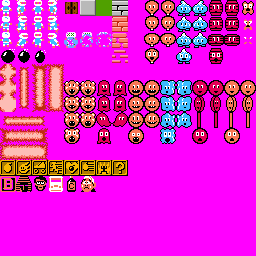
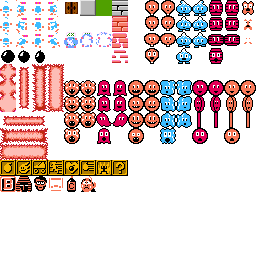
...

diff --git a/Bomberman/src/com/msteam/gameobject/Character.java b/Bomberman/src/com/msteam/gameobject/Character.java
@@ -23,30 +23,30 @@ public abstract class Character extends ParticularObject{
             setPosY(getPosY() + getSpeedY());
 
             if(getDirection() == DIR_LEFT &&
-                    getGameWorld().map.impactWithLeft(getBoundForCollisonWithMap())!=null){
+                    getGameWorld().map.impactWithLeft(getBoundForCollisionWithMap())!=null){
 
-                Rectangle rectLeftWall = getGameWorld().map.impactWithLeft(getBoundForCollisonWithMap());
+                Rectangle rectLeftWall = getGameWorld().map.impactWithLeft(getBoundForCollisionWithMap());
                 setPosX(rectLeftWall.x + rectLeftWall.width + getWidth()/2);
                 System.out.println("Impact with left box");
             }
             if(getDirection() == DIR_RIGHT &&
-                    getGameWorld().map.impactWithRight(getBoundForCollisonWithMap())!=null){
+                    getGameWorld().map.impactWithRight(getBoundForCollisionWithMap())!=null){
 
-                Rectangle rectRightWall = getGameWorld().map.impactWithRight(getBoundForCollisonWithMap());
+                Rectangle rectRightWall = getGameWorld().map.impactWithRight(getBoundForCollisionWithMap());
                 setPosX(rectRightWall.x - getWidth()/2);
                 System.out.println("Impact with right box");
             }
             if(getDirection() == DIR_UP &&
-                    getGameWorld().map.impactWithUp(getBoundForCollisonWithMap())!=null){
+                    getGameWorld().map.impactWithUp(getBoundForCollisionWithMap())!=null){
 
                 //Rectangle rectUpWall = getGameWorld().map.impactWithUp(getBoundForCollisonWithMap());
                 //setPosY(rectUpWall.y + rectUpWall.height + getHeight()/2);
                 System.out.println("Impact with up box");
             }
             if(getDirection() == DIR_DOWN &&
-                    getGameWorld().map.impactWithRight(getBoundForCollisonWithMap())!=null){
+                    getGameWorld().map.impactWithRight(getBoundForCollisionWithMap())!=null){
 
-                Rectangle rectDownWall = getGameWorld().map.impactWithRight(getBoundForCollisonWithMap());
+                Rectangle rectDownWall = getGameWorld().map.impactWithRight(getBoundForCollisionWithMap());
                 setPosY(rectDownWall.y - getHeight()/2 );
                 System.out.println("Impact with down box");
             }

diff --git a/Bomberman/src/com/msteam/gameobject/Map.java b/Bomberman/src/com/msteam/gameobject/Map.java
@@ -16,7 +16,7 @@ public class Map extends GameObject{
     public Map(float x, float y, GameWorld gameWorld){
 
         super(x,y,gameWorld);
-        this.tileSize = 48;
+        this.tileSize = 32;
         map = CacheDataLoader.getInstance().getMap();
     }
 
@@ -38,7 +38,22 @@ public class Map extends GameObject{
                     wall = CacheDataLoader.getInstance().getFrameImage("wall");
                     g2.drawImage(wall.getImage(),(int)getPosX() + j*tileSize - (int) camera.getPosX(),(int)getPosY() + i*tileSize - (int) camera.getPosY(), tileSize, tileSize,null );
                 }
-                //if (map[i][j].equals())
+                if (map[i][j].equals("*")){
+
+                    FrameImage brick = new FrameImage();
+                    brick = CacheDataLoader.getInstance().getFrameImage("brick");
+                    g2.drawImage(brick.getImage(),(int)getPosX() + j*tileSize - (int) camera.getPosX(),(int)getPosY() + i*tileSize - (int) camera.getPosY(), tileSize, tileSize,null );
+                }
+                if(map[i][j].equals("x")){
+                    FrameImage portal = new FrameImage();
+                    portal = CacheDataLoader.getInstance().getFrameImage("portal");
+                    g2.drawImage(portal.getImage(),(int)getPosX() + j*tileSize - (int) camera.getPosX(),(int)getPosY() + i*tileSize - (int) camera.getPosY(), tileSize, tileSize,null );
+                }
+                if(map[i][j].equals(" ")){
+                    FrameImage grass = new FrameImage();
+                    grass = CacheDataLoader.getInstance().getFrameImage("grass");
+                    g2.drawImage(grass.getImage(),(int)getPosX() + j*tileSize - (int) camera.getPosX(),(int)getPosY() + i*tileSize - (int) camera.getPosY(), tileSize, tileSize,null );
+                }
             }
         }
     }

diff --git a/Bomberman/src/com/msteam/userinterface/GamePanel.java b/Bomberman/src/com/msteam/userinterface/GamePanel.java
@@ -39,7 +39,7 @@ public class GamePanel extends JPanel implements Runnable, KeyListener {
 
         gameWorld = new GameWorld();
         inputManager = new InputManager(gameWorld);
-        bufImage = new BufferedImage(GameFrame.SCREEN_WIDTH,GameFrame.SCREEN_HEIGHT,BufferedImage.TYPE_INT_RGB);
+        bufImage = new BufferedImage(GameFrame.SCREEN_WIDTH,GameFrame.SCREEN_HEIGHT,BufferedImage.TYPE_INT_ARGB);
     }
 
     public GameWorld getGameWorld() {
@@ -55,7 +55,7 @@ public class GamePanel extends JPanel implements Runnable, KeyListener {
 
         if (bufImage == null){
 
-            bufImage = new BufferedImage(GameFrame.SCREEN_WIDTH,GameFrame.SCREEN_HEIGHT,BufferedImage.TYPE_INT_RGB);
+            bufImage = new BufferedImage(GameFrame.SCREEN_WIDTH,GameFrame.SCREEN_HEIGHT,BufferedImage.TYPE_INT_ARGB);
         }
 
         if (bufImage != null){
@@ -65,7 +65,7 @@ public class GamePanel extends JPanel implements Runnable, KeyListener {
 
         if (bufG2D != null){
 
-            bufG2D.setColor(Color.WHITE);
+            bufG2D.setColor(Color.GREEN);
             bufG2D.fillRect(0,0,GameFrame.SCREEN_WIDTH,GameFrame.SCREEN_HEIGHT);
 
             gameWorld.render(bufG2D);

diff --git a/Bomberman/src/com/msteam/gameobject/ParticularObject.java b/Bomberman/src/com/msteam/gameobject/ParticularObject.java
@@ -130,7 +130,7 @@ public abstract class ParticularObject extends GameObject{
         return damage;
     }
 
-    public Rectangle getBoundForCollisonWithMap(){
+    public Rectangle getBoundForCollisionWithMap(){
 
         Rectangle bound = new Rectangle();
         bound.x = (int) (getPosX() - (getWidth()/2));
@@ -158,7 +158,7 @@ public abstract class ParticularObject extends GameObject{
 
     public void drawBoundCollisionWithMap(Graphics2D g2){
 
-        Rectangle rect = getBoundForCollisonWithMap();
+        Rectangle rect = getBoundForCollisionWithMap();
         g2.setColor(Color.BLUE);
         g2.drawRect(rect.x - (int) getGameWorld().camera.getPosX(),rect.y - (int) getGameWorld().camera.getPosY(),rect.width,rect.height);
     }

diff --git a/Bomberman/src/com/msteam/gameobject/BomberMan.java b/Bomberman/src/com/msteam/gameobject/BomberMan.java
@@ -35,16 +35,16 @@ public class BomberMan extends Character {
     @Override
     public void run() {
         if (getDirection() == DIR_LEFT) {
-            setSpeedX(-3);
+            setSpeedX(-5);
         }
         if (getDirection() == DIR_RIGHT) {
-            setSpeedX(3);
+            setSpeedX(5);
         }
         if (getDirection() == DIR_UP) {
-            setSpeedY(-3);
+            setSpeedY(-5);
         }
         if (getDirection() == DIR_DOWN) {
-            setSpeedY(3);
+            setSpeedY(5);
         }
     }
 
